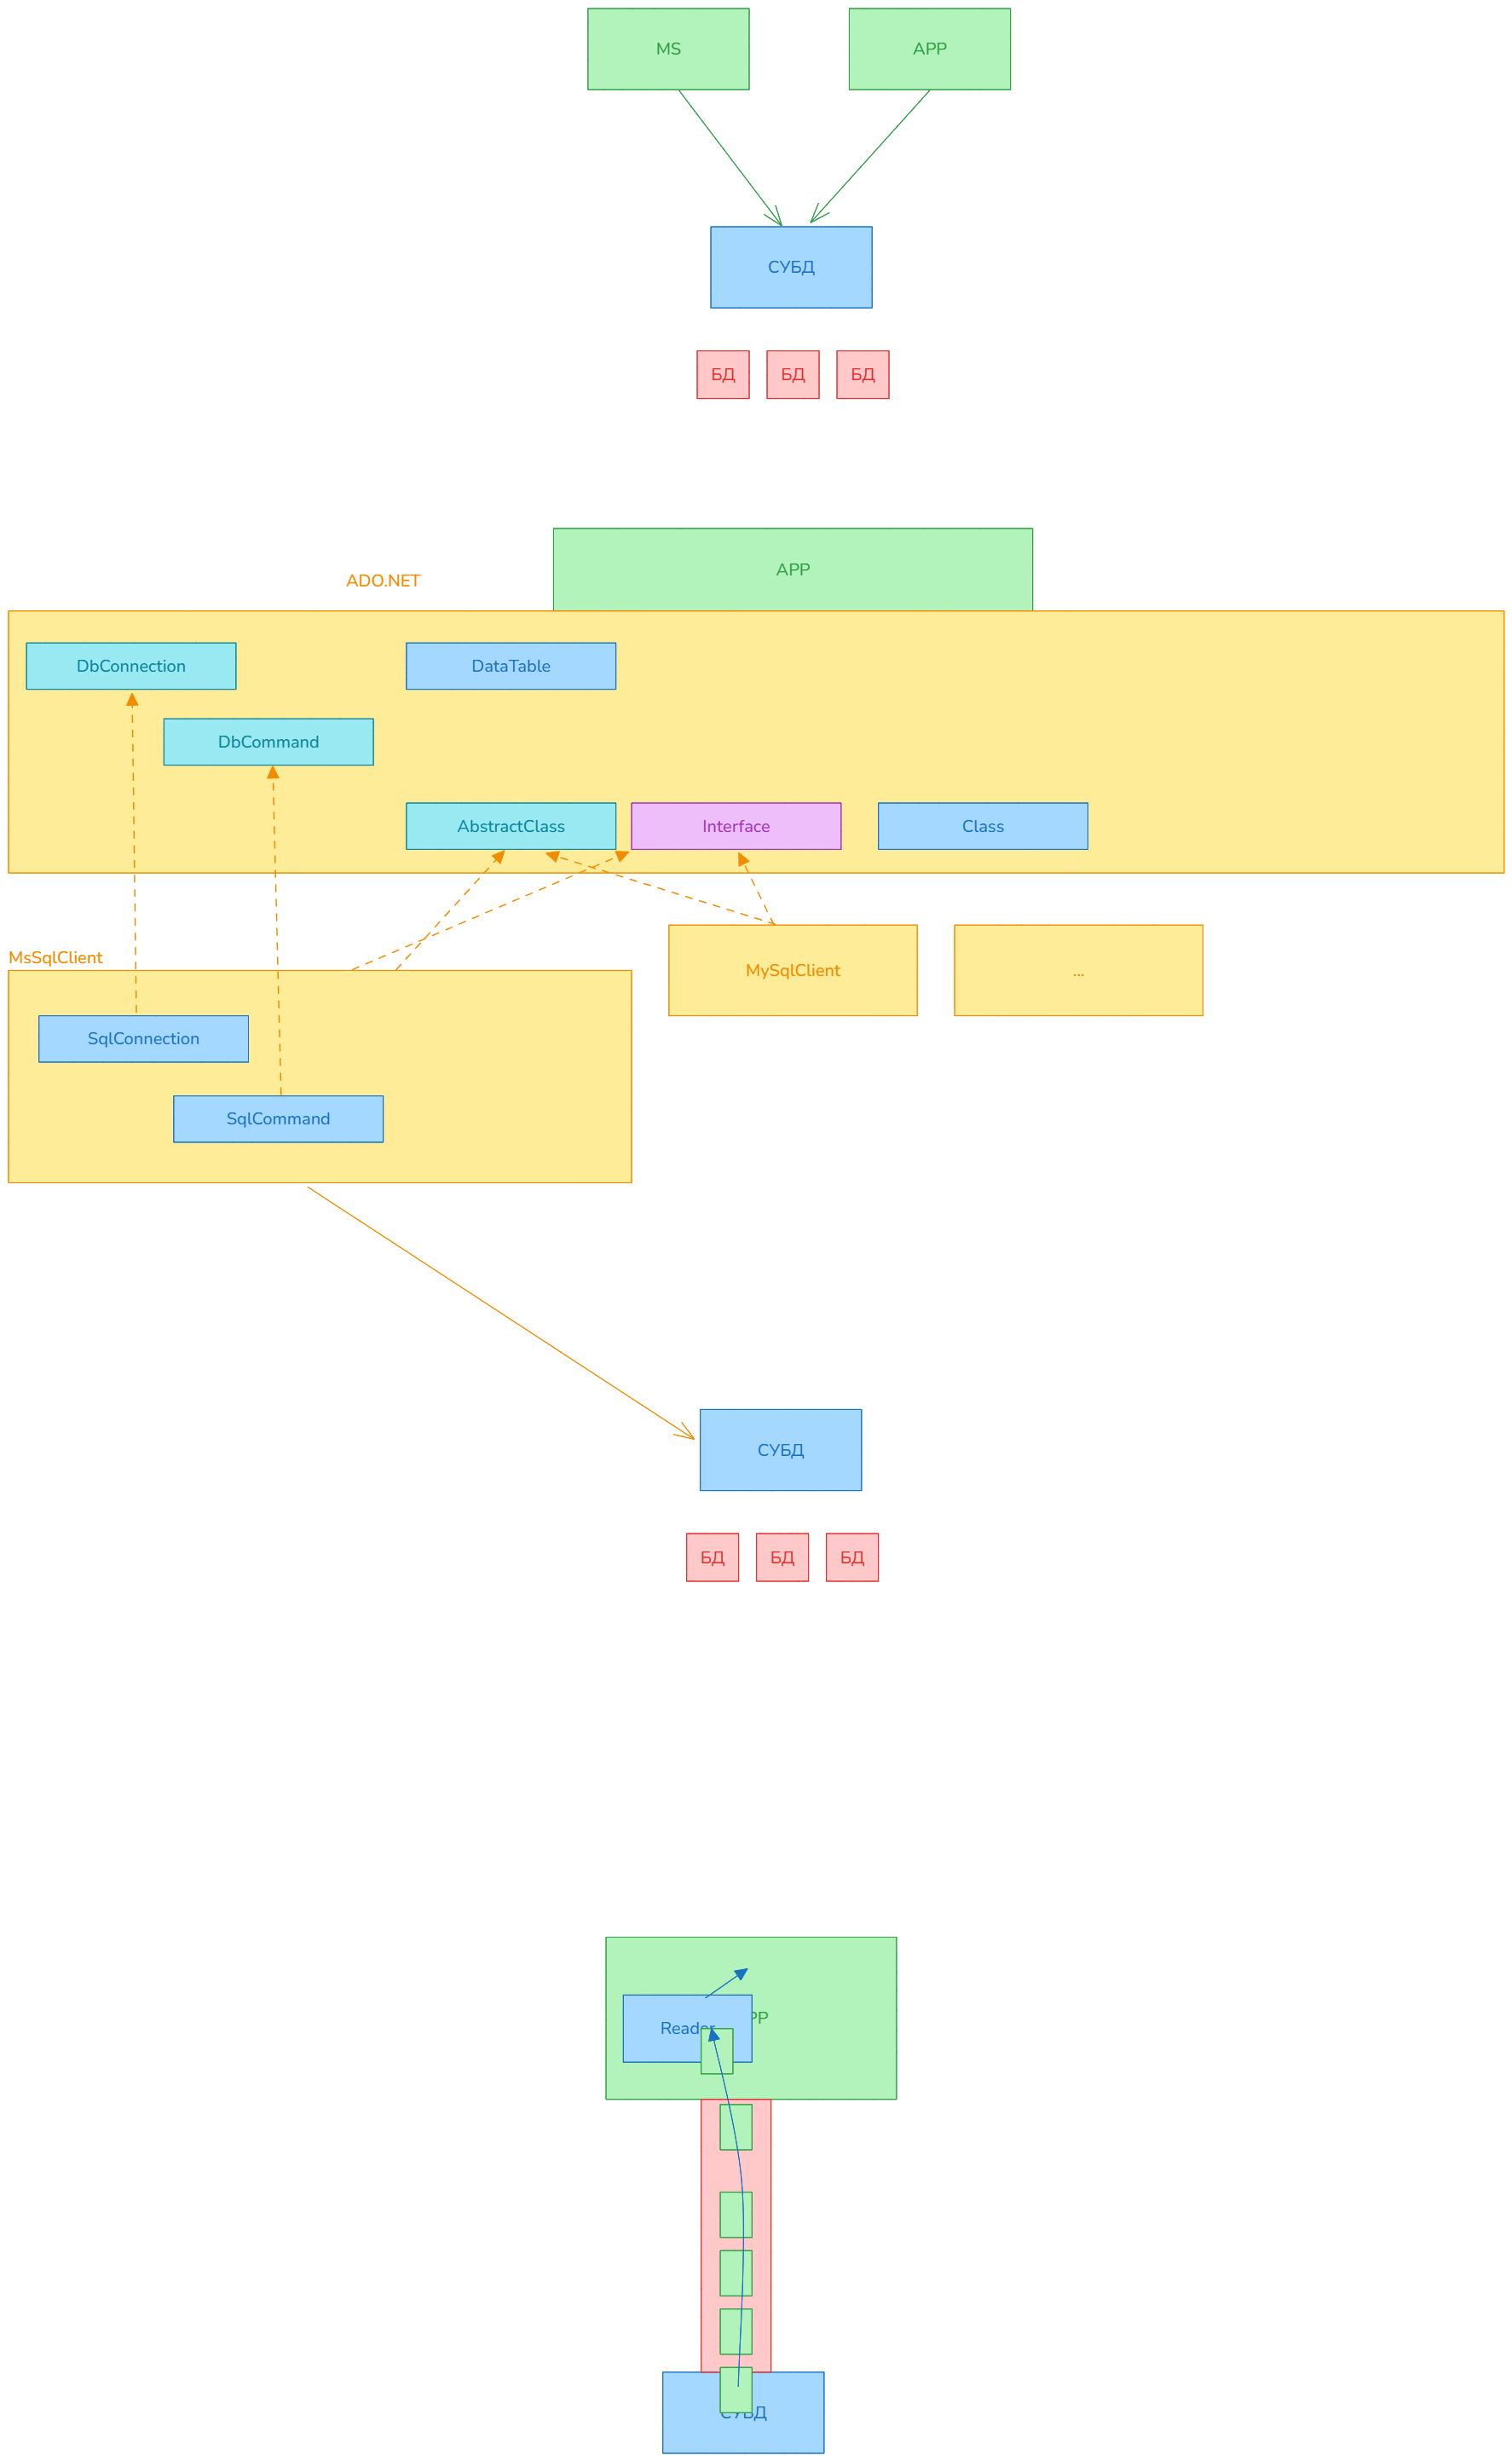
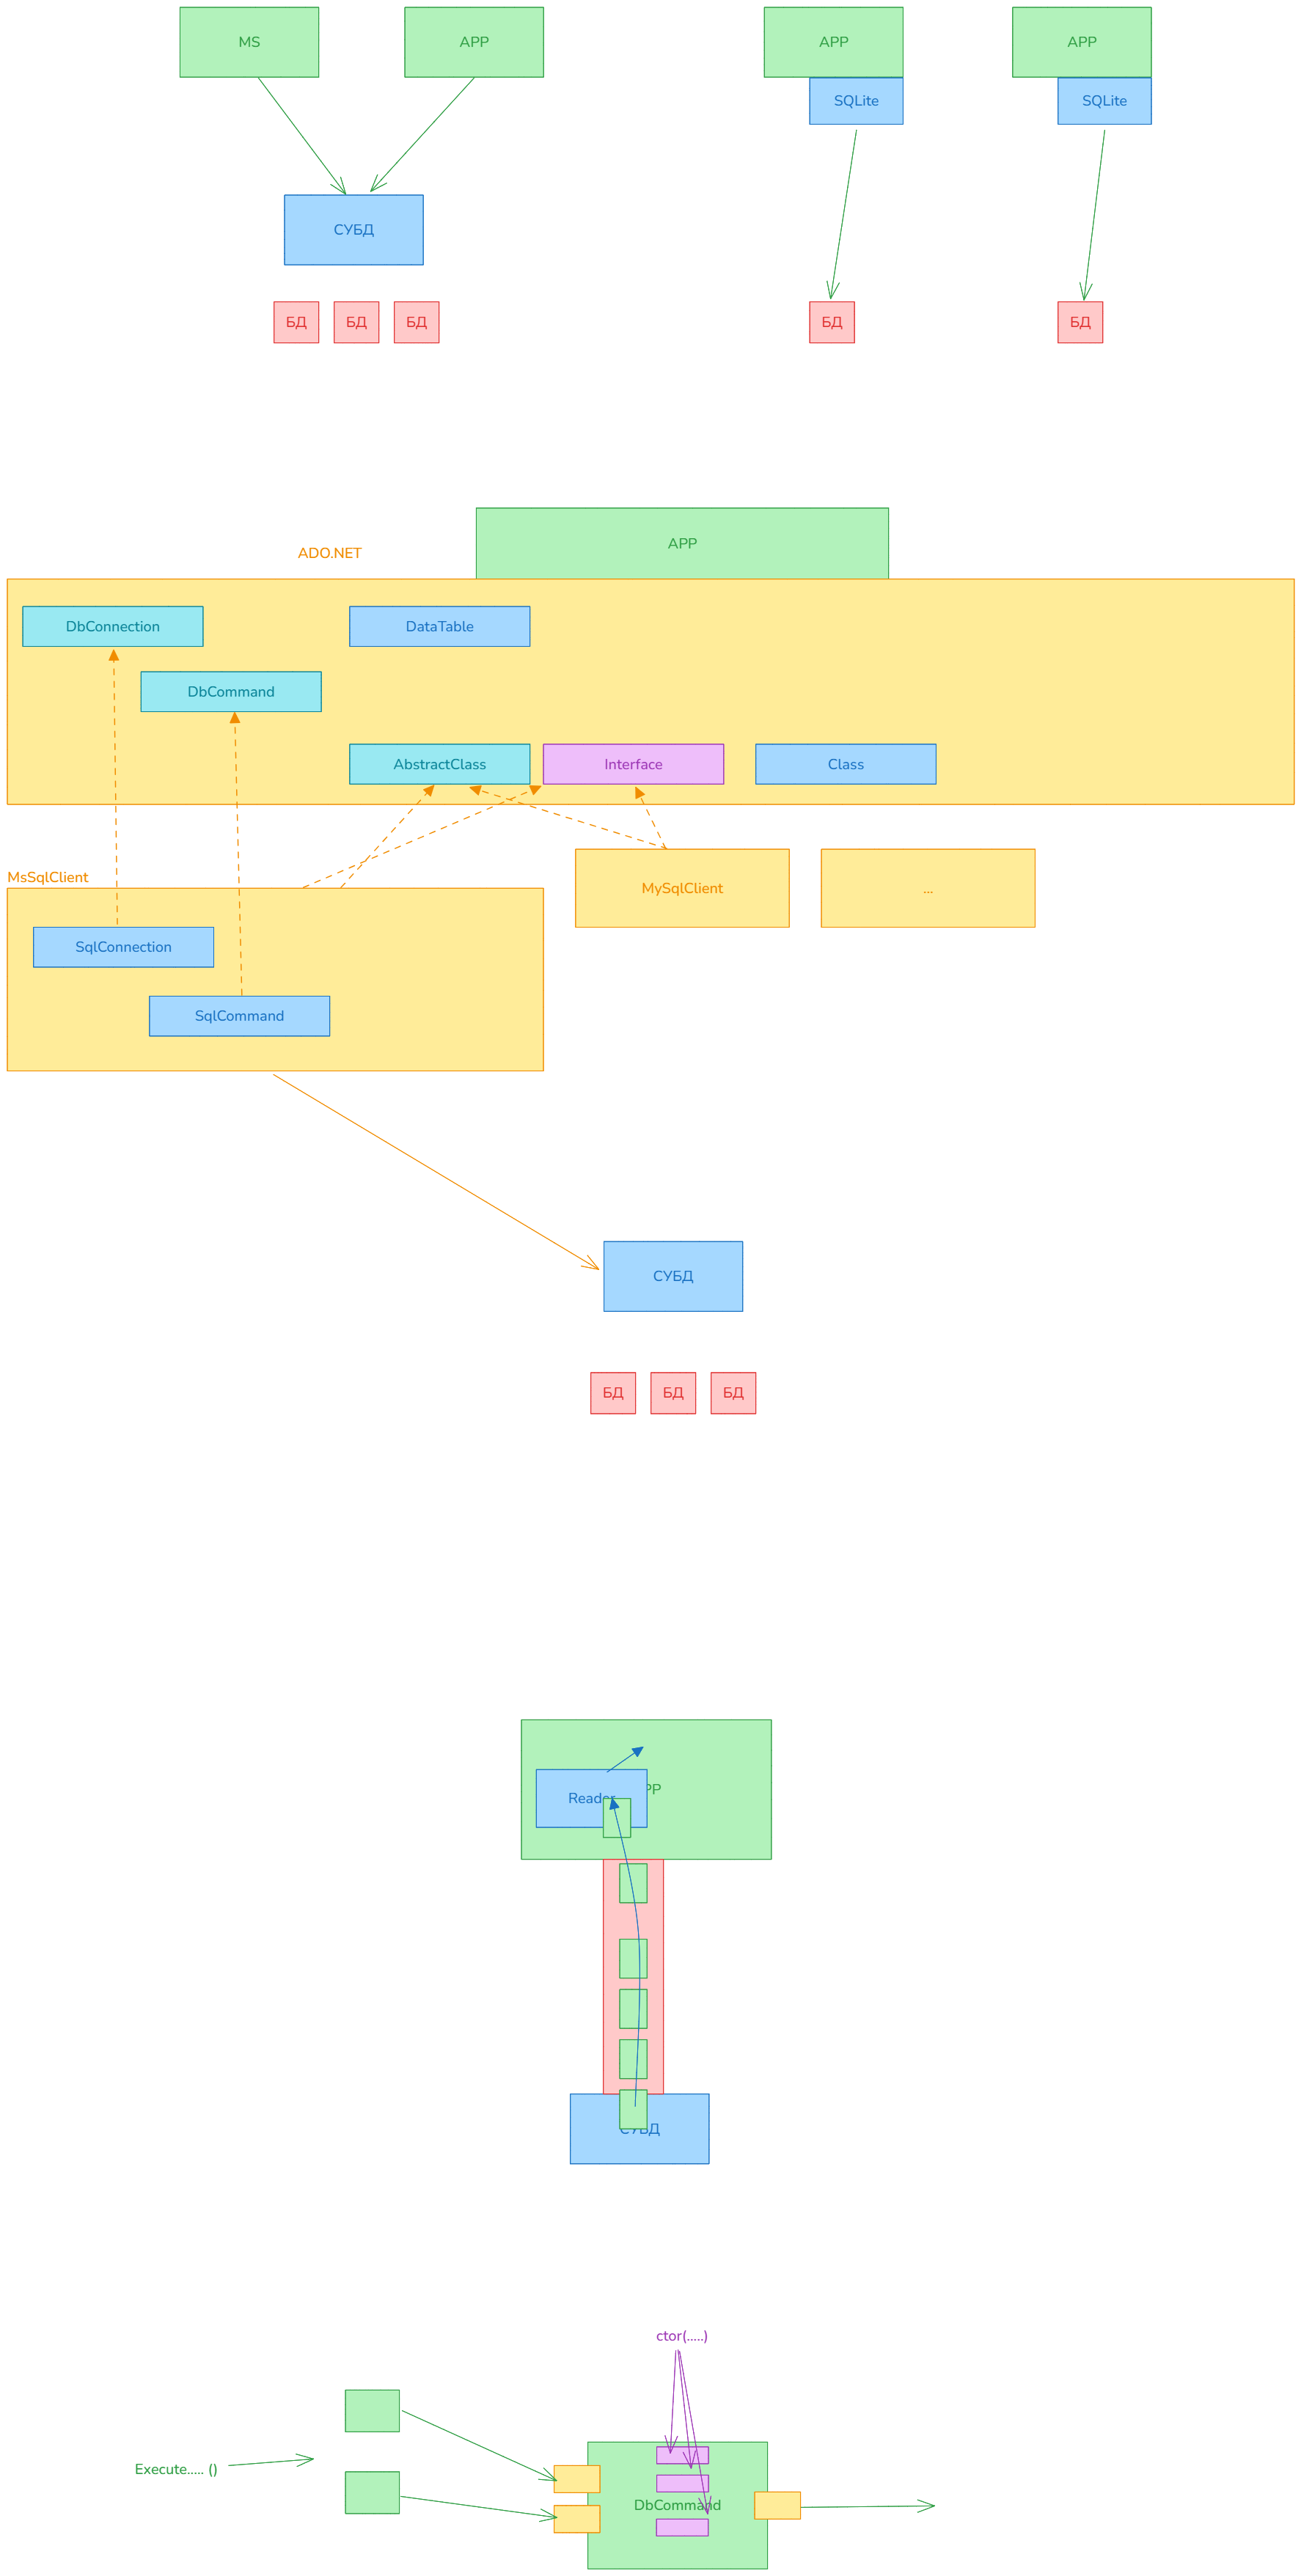
add:prepared queries

diff --git a/01_simple_ado_net/03_prepared_query/Program.cs b/01_simple_ado_net/03_prepared_query/Program.cs
@@ -1,0 +1,148 @@
+using System.Data;
+using Microsoft.Data.SqlClient;
+
+const string connString = @"Server=.\SQLEXPRESS;Database=p42_logbook_db;Trusted_Connection=True;Encrypt=False;";
+
+//using SqlConnection conn = new SqlConnection(connString);
+
+//// string title = "C++";
+
+//string title = "my_title');INSERT INTO subjects (title) VALUES('ADMIN LOOSER!!!";
+
+//try
+//{
+//    conn.Open();
+//    Console.WriteLine("Connection OK");
+
+//    string query = $@"INSERT INTO subjects (title) VALUES ('{title}')";
+//    Console.WriteLine(query);
+
+//    SqlCommand cmd = new SqlCommand(query, conn);
+//    cmd.ExecuteNonQuery();
+//}
+//catch (Exception ex)
+//{
+//    Console.WriteLine($"ERROR: {ex.Message}");
+//}
+//finally
+//{
+//    if (conn.State == System.Data.ConnectionState.Open)
+//    {
+//        conn.Close();
+//        Console.WriteLine("Connection closed");
+//    }
+//}
+
+
+
+
+
+
+
+
+//using SqlConnection conn = new SqlConnection(connString);
+
+//// string title = "C++";
+
+//string title = "my_title');INSERT INTO subjects (title) VALUES('ADMIN LOOSER!!!";
+
+//try
+//{
+//    conn.Open();
+//    Console.WriteLine("Connection OK");
+
+//    string query = $@"INSERT INTO subjects (title) VALUES (@title)";
+//    Console.WriteLine(query);
+
+//    SqlCommand cmd = new SqlCommand(query, conn);
+
+//    SqlParameter prm = new SqlParameter("@title", title)
+//    {
+//        SqlDbType = SqlDbType.NVarChar,
+//        Size = 256
+//    };
+//    cmd.Parameters.Add(prm);
+
+//    cmd.ExecuteNonQuery();
+//}
+//catch (Exception ex)
+//{
+//    Console.WriteLine($"ERROR: {ex.Message}");
+//}
+//finally
+//{
+//    if (conn.State == System.Data.ConnectionState.Open)
+//    {
+//        conn.Close();
+//        Console.WriteLine("Connection closed");
+//    }
+//}
+
+
+
+
+
+
+
+
+
+
+
+
+
+
+
+
+using SqlConnection conn = new SqlConnection(connString);
+
+string title = "P42";
+int status = 3;
+
+try
+{
+    conn.Open();
+    Console.WriteLine("Connection OK");
+
+    string query = @"
+            INSERT INTO groups (title, status)
+            VALUES (@title, @status);
+            SET @last_id = SCOPE_IDENTITY();
+        ";
+
+    SqlCommand cmd = new SqlCommand(query, conn);
+
+    cmd.Parameters.Add(new SqlParameter("@title", title)
+    {
+        SqlDbType = SqlDbType.NVarChar,
+        Size = 128,
+    });
+
+    cmd.Parameters.Add(new SqlParameter("@status", status)
+    {
+        SqlDbType = SqlDbType.TinyInt,
+    });
+
+    SqlParameter idPrm = new SqlParameter()
+    {
+        ParameterName = "@last_id",
+        SqlDbType = SqlDbType.Int,
+        Direction = ParameterDirection.Output,
+    };
+    cmd.Parameters.Add(idPrm);
+
+    cmd.ExecuteNonQuery();
+
+    Console.WriteLine($"last_id = {idPrm.Value}");
+}
+catch (Exception ex)
+{
+    Console.WriteLine($"ERROR: {ex.Message}");
+}
+finally
+{
+    if (conn.State == System.Data.ConnectionState.Open)
+    {
+        conn.Close();
+        Console.WriteLine("Connection closed");
+    }
+}

diff --git a/01_simple_ado_net/02_sp/Program.cs b/01_simple_ado_net/02_sp/Program.cs
@@ -1,17 +1,64 @@
 
-
-
+using System.Data;
 using Microsoft.Data.SqlClient;
 
 const string connString = @"Server=.\SQLEXPRESS;Database=p42_insta_db;Trusted_Connection=True;Encrypt=False;";
 
+
+
+
+//string procQuery = @"
+//    CREATE PROCEDURE uspGetUserOf2000
+//    AS
+//    BEGIN
+//        SELECT id, email
+//        FROM users
+//        WHERE YEAR(birthday) = 2000;
+//    END
+//";
+
+//using SqlConnection conn = new SqlConnection(connString);
+
+//try
+//{
+//    conn.Open();
+
+//    Console.WriteLine("Connection OK");
+
+//    //SqlCommand cmd = new SqlCommand(procQuery, conn);
+//    //cmd.ExecuteNonQuery();
+
+//    SqlDataReader reader = GetProcReader("uspGetUserOf2000");
+//    RenderResult(reader);
+//}
+//catch (Exception ex)
+//{
+//    Console.WriteLine($"ERROR: {ex.Message}");
+//}
+//finally
+//{
+//    if (conn.State == System.Data.ConnectionState.Open)
+//    {
+//        conn.Close();
+//        Console.WriteLine("Connection closed");
+//    }
+//}
+
+
+
+
+
 string procQuery = @"
-    CREATE PROCEDURE uspGetUserOf2000
+    CREATE PROCEDURE uspGetUsersCountByEmailPattern
+        @pattern nvarchar(50),
+        @count int OUT
     AS
     BEGIN
-        SELECT id, email
-        FROM users
-        WHERE YEAR(birthday) = 2000;
+        SET @count = (
+            SELECT COUNT(email)
+            FROM users
+            WHERE email LIKE @pattern
+        );
     END
 ";
 
@@ -23,10 +70,11 @@ try
 
     Console.WriteLine("Connection OK");
 
-    SqlCommand cmd = new SqlCommand(procQuery, conn);
-    cmd.ExecuteNonQuery();
+    //SqlCommand cmd = new SqlCommand(procQuery, conn);
+    //cmd.ExecuteNonQuery();
 
-
+    int result = CountByEmail("a%");
+    Console.WriteLine($"Count = {result}");
 }
 catch (Exception ex)
 {
@@ -40,3 +88,77 @@ finally
         Console.WriteLine("Connection closed");
     }
 }
+
+int CountByEmail(string pattern)
+{
+    string procName = "uspGetUsersCountByEmailPattern";
+
+    SqlCommand cmd = new SqlCommand(procName, conn)
+    {
+        CommandType = CommandType.StoredProcedure,
+    };
+
+    cmd.Parameters.Add(new SqlParameter()
+    {
+        ParameterName = "@pattern",
+        SqlDbType = SqlDbType.NVarChar,
+        Size = 50,
+        Value = pattern,
+    });
+
+    SqlParameter countPrm = new SqlParameter()
+    {
+        ParameterName = "@count",
+        SqlDbType = SqlDbType.Int,
+        Direction = ParameterDirection.Output,
+    };
+
+    cmd.Parameters.Add(countPrm);
+
+    cmd.ExecuteNonQuery();
+
+    return (int)countPrm.Value;
+}
+
+
+
+SqlDataReader GetProcReader(string procName)
+{
+    SqlCommand cmd = new SqlCommand()
+    {
+        Connection = conn,
+        CommandType = System.Data.CommandType.StoredProcedure,      // <<< !!!
+        CommandText = procName
+    };
+
+    return cmd.ExecuteReader();
+}
+
+void RenderResult(SqlDataReader reader)
+{
+    DataTable dt = new DataTable();
+    dt.Load(reader);
+
+    int columnsCount = dt.Columns.Count;
+
+    Console.Write($"#\t\t");
+    foreach(DataColumn col in dt.Columns)
+        Console.Write($"{col.ColumnName}\t\t");
+    Console.WriteLine();
+
+    for(int i = 0; i < dt.Rows.Count; ++i)
+    {
+        Console.Write($"{i + 1}\t\t");
+
+        DataRow row = dt.Rows[i];
+
+        for (int j = 0; j < columnsCount; j++)
+        {
+            Console.Write($"{row[j]}\t\t");
+        }
+
+        Console.WriteLine();
+    }
+    
+}
+